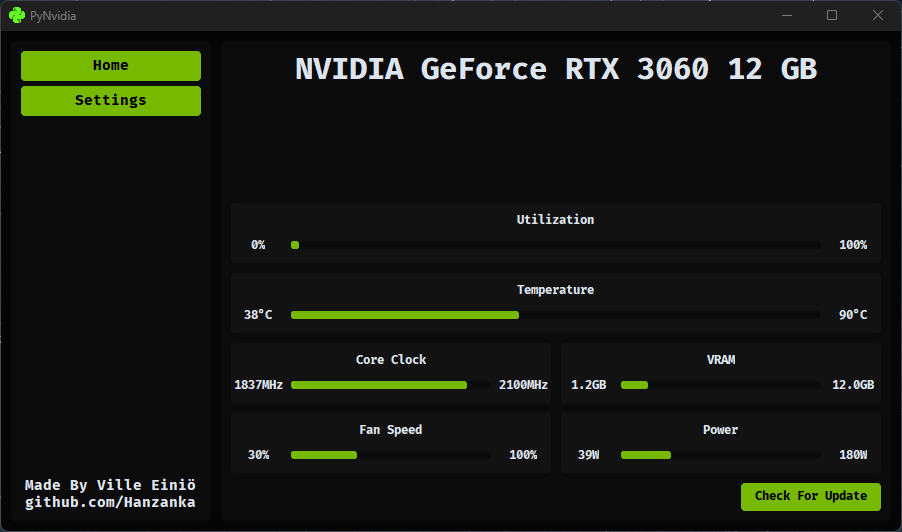
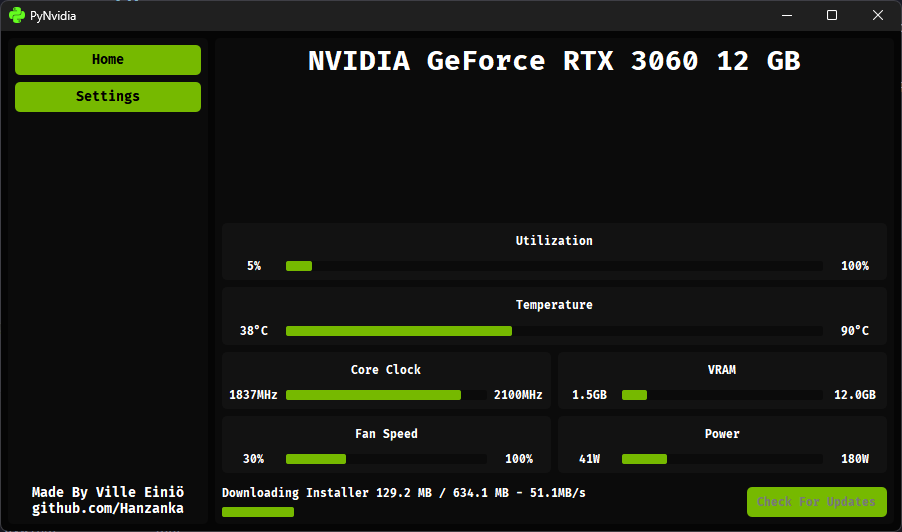
Update README to comply with current state of the project

diff --git a/README.md b/README.md
@@ -2,44 +2,26 @@
 # PyNvidia
 This repository provides a comprehensive solution for managing NVIDIA GPU drivers. It includes a utility for updating NVIDIA GPU drivers to their latest versions via easy to use user-interface.
 
-In addition, it features a monitoring system that keeps track of the state of your NVIDIA GPU. This includes monitoring GPU temperature, memory usage, clock speed, and more. Please note that the monitoring is currently real-time only and does not support logging or retrieving past data.
+In addition, it features a monitoring system that keeps track of the state of your NVIDIA GPU. This includes monitoring GPU temperature, memory usage, clock speed, and more.
 
 ## Features
 - Driver Updates: Automatically updates NVIDIA GPU drivers to the latest version.
 - GPU Monitoring: Real-time monitoring of GPU state.
 
 ## UI
-### Note
-The UI will be remaked with PyQT instead of Tkinter.
 ### Home Screen
 - Driver Updates: Automatically update your with a few clicks.
 - GPU Monitoring: Display GPU statistics in real-time.
 
 ![Home Screen](https://github.com/Hanzanka/PyNvidia/blob/main/homescreen.png?raw=true)
+### Graph View
+- GPU Monitoring: View GPU sensor values in real-time updating graph.
+
+![Graph View](https://github.com/Hanzanka/PyNvidia/blob/main/graphview.png?raw=true)
 
 ## Dependencies
-- [CustomTkinter](https://github.com/tomschimansky/customtkinter)
-- Tkinter
-- [Selenium](https://pypi.org/project/selenium/)
+- [PyQt6](https://pypi.org/project/PyQt6/)
+- [pyqtgraph](https://pypi.org/project/pyqtgraph/)
+- [beautifulsoup4](https://pypi.org/project/beautifulsoup4/)
 - [pyuac](https://pypi.org/project/pyuac/)
 - [Fira Code](https://fonts.google.com/specimen/Fira+Code)(Probably will be changed or to be automatically installed with the program)
-
-
-## Installation
-The repository is in early development, so the program wouldn't work by directly cloning the repository. However if you still want to get it work, here is the steps to get it work:
-
-1. Clone the repository
-```bash
-git clone https://github.com/Hanzanka/PyNvidia.git
-```
-2. Create a config.json -file to `src/`
-
-3. Add these lines to config.json:
-```json
-{
-    "paths": {
-        "program": "(path to where the repository cloned)",
-        "download": "(path to where the driver files are downloaded)"
-    }
-}
-```
